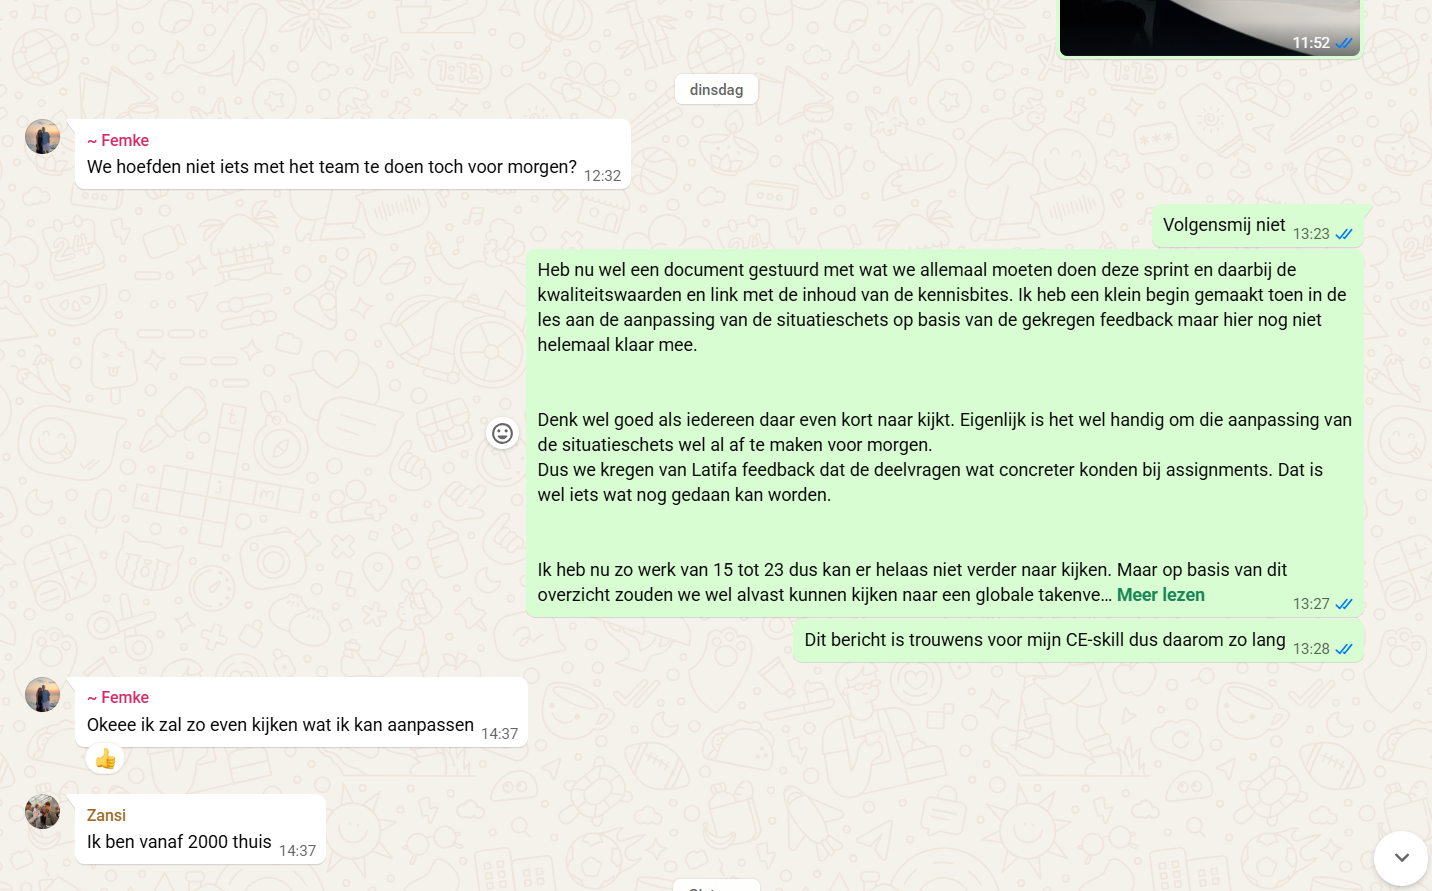
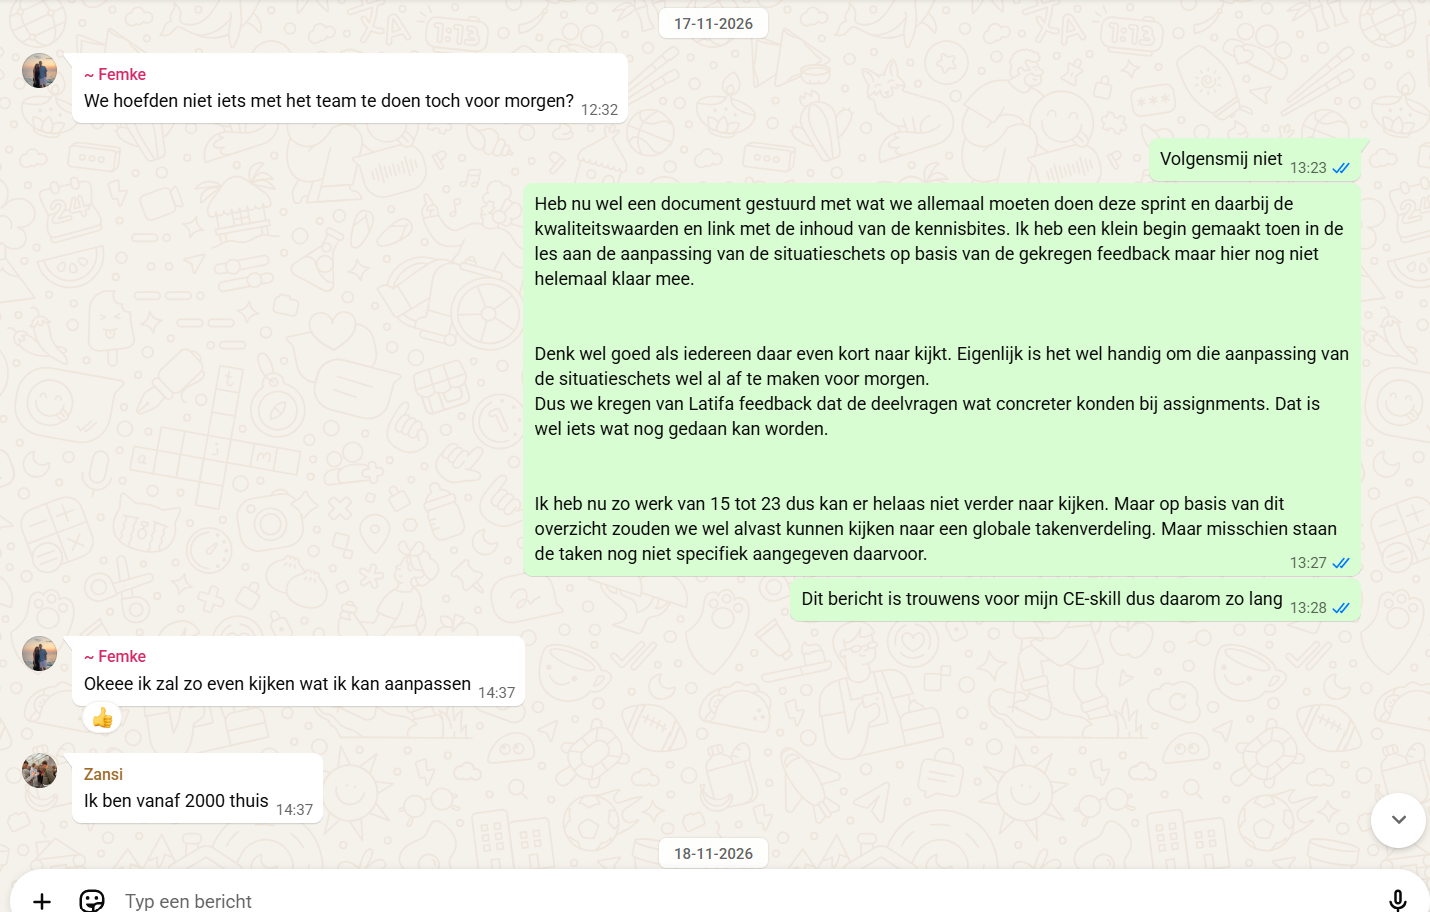
CE-skilldoel: volledige screenshot 17 november
Claude-Session: https://claude.ai/code/session_01FTmRrKCbLPthKnYuQiU1TZ

diff --git a/ce-skilldoel.html b/ce-skilldoel.html
@@ -79,7 +79,7 @@
       </div>
 </div><section class="block" id="overzicht-ontwikkeling"><h2 class="block-title">Mijn ontwikkeling in één overzicht</h2><div class="table-wrap"><table class="plain plain--cols"><thead><tr><th>Moment</th><th>Wat ik deed</th><th>Wat mijn team of docent zag</th><th>Waar ik stond</th></tr></thead><tbody><tr><td>Sprint 1 · week 1 (16 – 20 nov)</td><td>[in te vullen]</td><td>[in te vullen]</td><td>[in te vullen]</td></tr><tr><td>Sprint 1 · week 2 (23 – 27 nov)</td><td>[in te vullen]</td><td>[in te vullen]</td><td>[in te vullen]</td></tr><tr><td>Sprint 2 · week 1 (30 nov – 4 dec)</td><td>[in te vullen]</td><td>[in te vullen]</td><td>[in te vullen]</td></tr><tr><td>Sprint 2 · week 2 (7 – 11 dec)</td><td>[in te vullen]</td><td>[in te vullen]</td><td>[in te vullen]</td></tr><tr><td>Sprint 3 · week 1 (14 – 18 dec)</td><td>[in te vullen]</td><td>[in te vullen]</td><td>[in te vullen]</td></tr><tr><td>Sprint 3 · week 2 (4 – 8 jan)</td><td>[in te vullen]</td><td>[in te vullen]</td><td>[in te vullen]</td></tr></tbody></table></div><p><span class="missing missing--inline">[IN TE VULLEN — WAT IK NU ZIE]</span></p></section><section class="block" id="ontwikkeling"><h2 class="block-title">Mijn ontwikkeling per week</h2><div class="weeks"><article class="week" id="s1w1">
   <header class="week__head"><span class="week__when">Sprint 1 · week 1 (16 – 20 nov) · onderzoeksvoorstel</span><h3>Eerste updates uitgeprobeerd</h3></header>
-  <div class="week__rows"><div class="week__row"><span class="week__k">Wat deed ik?</span><div class="week__v"><p>Deze week deelde ik twee updates in de groepschat. <b>Dinsdag 17 november</b> vertelde ik dat ik een document had gestuurd met wat we deze sprint moeten doen, met de kwaliteitswaarden en de link naar de kennisbites, en dat ik een begin had gemaakt met de aanpassing van de situatieschets. Ik gaf aan dat het handig was om die aanpassing vóór woensdag af te maken en dat de deelvragen volgens de feedback van Latifa nog concreter konden. Omdat ik moest werken, kon ik er zelf niet verder aan. Femke bood aan om het aan te passen.</p><p><b>Donderdag 19 november</b> vertelde ik wat ik in onderdeel 5 van de onderzoeksopzet had aangepast: de belofte om per opdracht de inkomsten en uitgaven te berekenen veranderde ik in de bredere term rendement, en ik noteerde vier maatregelen voor de betrouwbaarheid van de expertinterviews. Ik vroeg Aidan direct om de planning in een tabel met toelichting te zetten, met elke taak uit de onderzoeksopzet erin, en zei waar ik zelf verder aan ging werken. Ik vroeg ook iedereen om het document te scannen op fouten.</p></div></div><div class="week__row"><span class="week__k">Turflijst deze week</span><div class="week__v"><p>Twee updates gedeeld, terwijl mijn doel één per week is. Twee taken doorgegeven: de aanpassing van de situatieschets (opgepakt door Femke) en de planning (gemaakt door Aidan). In sprint 1 nog zonder de 5W+H-methode, en bij geen van beide taken heeft de ander teruggekoppeld wat hij of zij precies gaat doen.</p></div></div><div class="week__row"><span class="week__k">Feedback</span><div class="week__v"><p>Nog geen 4G-feedback. Die vraag ik mijn wingman Aidan op vrijdag 27 november, aan het einde van sprint 1.</p></div></div><div class="week__row"><span class="week__k">Wat leerde ik?</span><div class="week__v"><p><b>Dinsdag</b> was mijn bericht niet duidelijk genoeg. Ik schreef eerst dat iedereen er “even kort” naar kon kijken, en pas daarna dat het handig was om de aanpassing van de situatieschets al vóór morgen af te maken. Zo kwam de urgentie pas halverwege. Ook noemde ik twee taken zonder te zeggen wie wat deed, en vroeg ik “iedereen” om te kijken. Wat er aan de deelvragen moest veranderen, zei ik niet. Femke pakte de situatieschets op en zette de wijzigingen overzichtelijker neer, maar dat was haar keuze en niet mijn uitleg. Ik heb niet gecheckt of het overeenkwam met wat ik bedoelde.</p><p><b>Donderdag</b> was duidelijker. Alle drie de onderdelen stonden erin, en doordat ik Aidan direct vroeg, kwam de planning er. Eén persoon direct vragen werkt dus beter dan een taak aan de groep geven. Toch legde ik niet uit waarom ik de belofte veranderde in de bredere term rendement, terwijl dat juist een inhoudelijke keuze was die het team moest begrijpen. Ik noemde geen deadline en vroeg Aidan niet om terug te koppelen. Mijn vraag aan iedereen om te scannen op fouten was zo algemeen dat niemand wist waar hij op moest letten; dat Femke toch tussenkopjes aanpaste en de bronnen in APA zette, lag aan haar.</p><p>Het patroon is hetzelfde als in blok 1: ik zet een taak in de groepschat en ga ervan uit dat het goed komt, en ik vertel wel wát ik deed, maar niet waarom.</p><p><b>Wat ik meeneem naar volgende week:</b> ik leg uit waarom ik keuzes maak, en ik geef elke taak aan één persoon door met wat er moet gebeuren en wanneer, waarna ik vraag kort terug te sturen wat hij gaat doen.</p></div></div><div class="week__row"><span class="week__k">Bewijs</span><div class="week__v"><figure class="evfig"><button class="shot" type="button"><img src="img/ev/ce-s1w1-dinsdag.png" width="1432" height="891" loading="lazy" alt="Screenshot groepschat dinsdag 17 november"></button><figcaption>Dinsdag 17 november: mijn update en de reactie van Femke.</figcaption></figure><figure class="evfig"><button class="shot" type="button"><img src="img/ev/ce-s1w1-donderdag.png" width="1415" height="642" loading="lazy" alt="Screenshot groepschat donderdag 19 november"></button><figcaption>Donderdag 19 november: mijn update met de taak voor Aidan.</figcaption></figure><p><small>Telefoonnummers in de screenshots heb ik onleesbaar gemaakt.</small></p></div></div></div>
+  <div class="week__rows"><div class="week__row"><span class="week__k">Wat deed ik?</span><div class="week__v"><p>Deze week deelde ik twee updates in de groepschat. <b>Dinsdag 17 november</b> vertelde ik dat ik een document had gestuurd met wat we deze sprint moeten doen, met de kwaliteitswaarden en de link naar de kennisbites, en dat ik een begin had gemaakt met de aanpassing van de situatieschets. Ik gaf aan dat het handig was om die aanpassing vóór woensdag af te maken en dat de deelvragen volgens de feedback van Latifa nog concreter konden. Omdat ik moest werken, kon ik er zelf niet verder aan. Femke bood aan om het aan te passen.</p><p><b>Donderdag 19 november</b> vertelde ik wat ik in onderdeel 5 van de onderzoeksopzet had aangepast: de belofte om per opdracht de inkomsten en uitgaven te berekenen veranderde ik in de bredere term rendement, en ik noteerde vier maatregelen voor de betrouwbaarheid van de expertinterviews. Ik vroeg Aidan direct om de planning in een tabel met toelichting te zetten, met elke taak uit de onderzoeksopzet erin, en zei waar ik zelf verder aan ging werken. Ik vroeg ook iedereen om het document te scannen op fouten.</p></div></div><div class="week__row"><span class="week__k">Turflijst deze week</span><div class="week__v"><p>Twee updates gedeeld, terwijl mijn doel één per week is. Twee taken doorgegeven: de aanpassing van de situatieschets (opgepakt door Femke) en de planning (gemaakt door Aidan). In sprint 1 nog zonder de 5W+H-methode, en bij geen van beide taken heeft de ander teruggekoppeld wat hij of zij precies gaat doen.</p></div></div><div class="week__row"><span class="week__k">Feedback</span><div class="week__v"><p>Nog geen 4G-feedback. Die vraag ik mijn wingman Aidan op vrijdag 27 november, aan het einde van sprint 1.</p></div></div><div class="week__row"><span class="week__k">Wat leerde ik?</span><div class="week__v"><p><b>Dinsdag</b> was mijn bericht niet duidelijk genoeg. Ik schreef eerst dat iedereen er “even kort” naar kon kijken, en pas daarna dat het handig was om de aanpassing van de situatieschets al vóór morgen af te maken. Zo kwam de urgentie pas halverwege. Ook noemde ik twee taken zonder te zeggen wie wat deed, en vroeg ik “iedereen” om te kijken. Wat er aan de deelvragen moest veranderen, zei ik niet. Femke pakte de situatieschets op en zette de wijzigingen overzichtelijker neer, maar dat was haar keuze en niet mijn uitleg. Ik heb niet gecheckt of het overeenkwam met wat ik bedoelde.</p><p><b>Donderdag</b> was duidelijker. Alle drie de onderdelen stonden erin, en doordat ik Aidan direct vroeg, kwam de planning er. Eén persoon direct vragen werkt dus beter dan een taak aan de groep geven. Toch legde ik niet uit waarom ik de belofte veranderde in de bredere term rendement, terwijl dat juist een inhoudelijke keuze was die het team moest begrijpen. Ik noemde geen deadline en vroeg Aidan niet om terug te koppelen. Mijn vraag aan iedereen om te scannen op fouten was zo algemeen dat niemand wist waar hij op moest letten; dat Femke toch tussenkopjes aanpaste en de bronnen in APA zette, lag aan haar.</p><p>Het patroon is hetzelfde als in blok 1: ik zet een taak in de groepschat en ga ervan uit dat het goed komt, en ik vertel wel wát ik deed, maar niet waarom.</p><p><b>Wat ik meeneem naar volgende week:</b> ik leg uit waarom ik keuzes maak, en ik geef elke taak aan één persoon door met wat er moet gebeuren en wanneer, waarna ik vraag kort terug te sturen wat hij gaat doen.</p></div></div><div class="week__row"><span class="week__k">Bewijs</span><div class="week__v"><figure class="evfig"><button class="shot" type="button"><img src="img/ev/ce-s1w1-dinsdag.png" width="1430" height="912" loading="lazy" alt="Screenshot groepschat dinsdag 17 november"></button><figcaption>Dinsdag 17 november: mijn update en de reactie van Femke.</figcaption></figure><figure class="evfig"><button class="shot" type="button"><img src="img/ev/ce-s1w1-donderdag.png" width="1415" height="642" loading="lazy" alt="Screenshot groepschat donderdag 19 november"></button><figcaption>Donderdag 19 november: mijn update met de taak voor Aidan.</figcaption></figure><p><small>Telefoonnummers in de screenshots heb ik onleesbaar gemaakt.</small></p></div></div></div>
 </article><article class="week" id="s1w2">
   <header class="week__head"><span class="week__when">Sprint 1 · week 2 (23 – 27 nov) · onderzoeksvoorstel</span><h3>Een update met waarom, deadline en check</h3></header>
   <div class="week__rows"><div class="week__row"><span class="week__k">Wat deed ik?</span><div class="week__v"><p>Op woensdag 25 november deelde ik mijn update in de groepschat, dit keer met de aanpassingen uit week 1 erin. Ik vertelde wat ik had gedaan: de verkorte situatieschets in het onderzoeksvoorstel gezet en de bronnenlijst bijgewerkt. Ook legde ik uit waarom: zo is het document overzichtelijker, zit er minder herhaling in en komt de kern naar buiten.</p><p>Daarna vroeg ik wie het document wilde controleren. Ik zei concreet waar diegene op moest letten (staat de kern van elk onderdeel er nog in, en kloppen de bronnen in de tekst met de bronnenlijst?), wanneer het af moest zijn (vóór donderdag 12:00) en vroeg ik om kort terug te sturen of het duidelijk was. Tot slot vroeg ik eerst of iedereen akkoord was voordat ik de situatieschets verder ging inkorten.</p></div></div><div class="week__row"><span class="week__k">Turflijst deze week</span><div class="week__v"><p>Eén update gedeeld met alle drie de onderdelen, nu ook met het waarom. Eén taak aan de groep doorgegeven (het document controleren), met twee concrete aandachtspunten en een deadline. De check telt als 0: ik vroeg wel of het werd begrepen, maar niet of iemand in eigen woorden wilde terugsturen wat hij ging doen.</p></div></div><div class="week__row"><span class="week__k">Feedback</span><div class="week__v"><p>Nog geen 4G-feedback. Die vraag ik mijn wingman Aidan op vrijdag 27 november, aan het einde van sprint 1.</p></div></div><div class="week__row"><span class="week__k">Wat leerde ik?</span><div class="week__v"><p>Ten opzichte van week 1 deed ik drie dingen anders: ik legde uit waarom ik had ingekort, ik maakte de taak concreet met twee aandachtspunten en een deadline, en ik vroeg vooraf om akkoord voordat ik verder ging inkorten. Dat laatste is precies wat er in de kick-offweek misging. Ook vroeg ik voor het eerst of de ander begreep wat ik bedoelde. In week 1 controleerde ik dat helemaal niet.</p><p>Het effect was direct: Femke reageerde binnen twee minuten en gaf een punt dat ik zelf niet had bedacht, namelijk dat volgens haar de inhoud(sopgave) en de bronnenlijst niet meetellen als pagina's. Dat neem ik mee in mijn keuze hoeveel ik de situatieschets nog inkort.</p><p>De taak is ook uitgevoerd: Femke en Vano hebben het document gecontroleerd. Femke merkte op dat de kopjes “Bruikbaar in sprint 2” in de theoretische verdieping eruit konden, en dat in de adviesvraag in de situatieschets nog de zakelijke markt ontbrak waarin Circulair Warenhuis zich wil positioneren. Dat laatste stond ook in de feedback die we moesten verwerken. Mijn update leverde dus echte verbeteringen op.</p><p>Kritisch bekeken zitten er twee zwakke plekken in. Ik vroeg <em>wie</em> het wilde controleren, en Femke antwoordde: als we er allemaal even naar kijken. Een taak voor de hele groep wordt zo een taak van niemand: er is nu niemand die zich echt verantwoordelijk voelt voor de controle. En mijn checkvraag (begrijp je wat ik bedoel?) kun je met ja beantwoorden zonder dat ik weet of het echt duidelijk is. Femke stuurde dan ook niet terug wat ze precies ging checken.</p><p><b>Wat ik meeneem naar sprint 2:</b> reageert de groep met 'we kijken er allemaal even naar', dan vraag ik één persoon om het op te pakken. Die persoon vraag ik in eigen woorden terug te sturen wat hij gaat doen, en dat bevestig ik of vul ik aan. De taak leg ik uit met de 5W+H-methode.</p></div></div><div class="week__row"><span class="week__k">Bewijs</span><div class="week__v"><p><b>Woensdag 25 november</b></p><figure class="evfig"><button class="shot" type="button"><img src="img/ev/ce-s1w2-update.png" width="1445" height="1080" loading="lazy" alt="Groepschat 25 november: mijn update en de reactie van Femke"></button></figure><p><b>Wat je ziet:</b> mijn update met alle drie de onderdelen, het waarom, een concrete taak met deadline en de vraag om akkoord, en de reactie van Femke met haar aanvulling.</p><p><small>Telefoonnummers heb ik onleesbaar gemaakt.</small></p></div></div></div>
